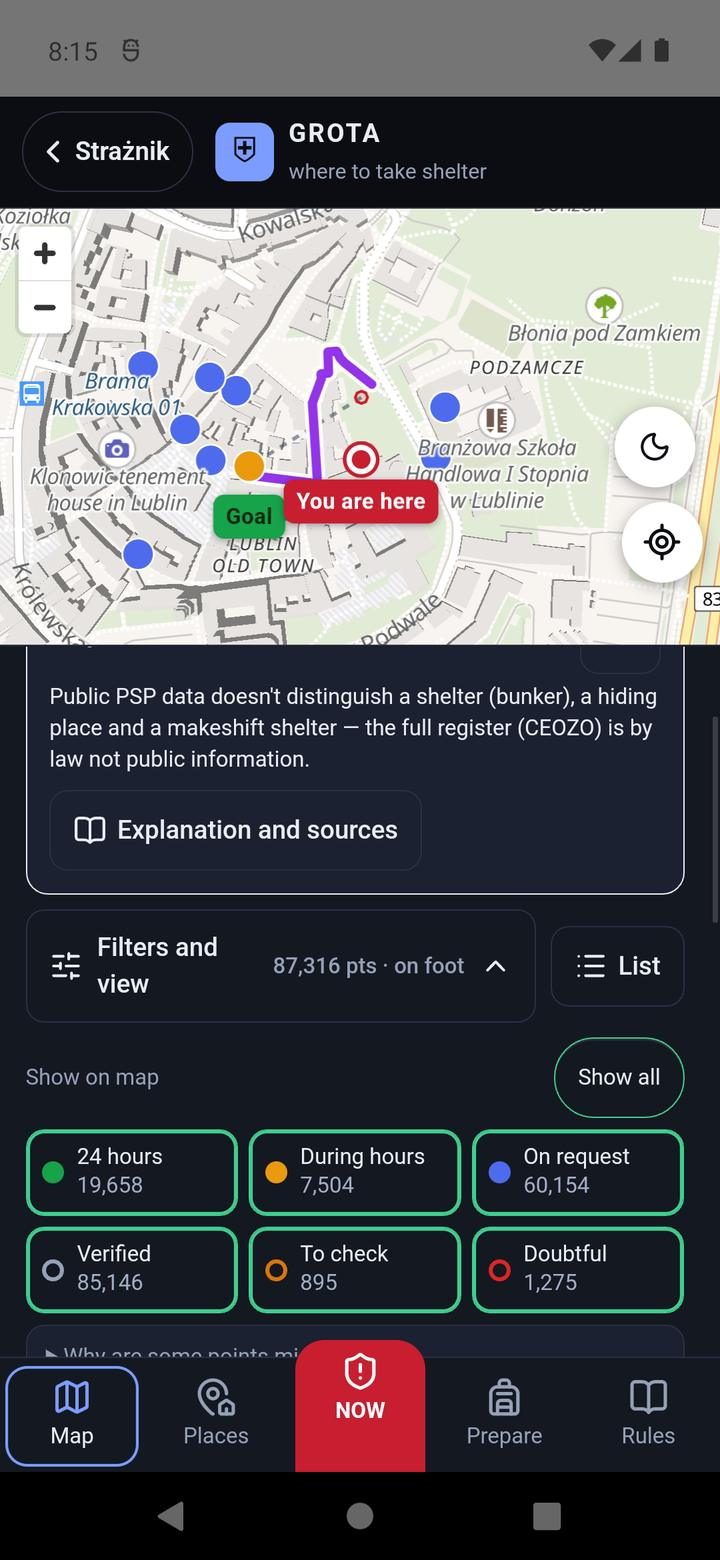
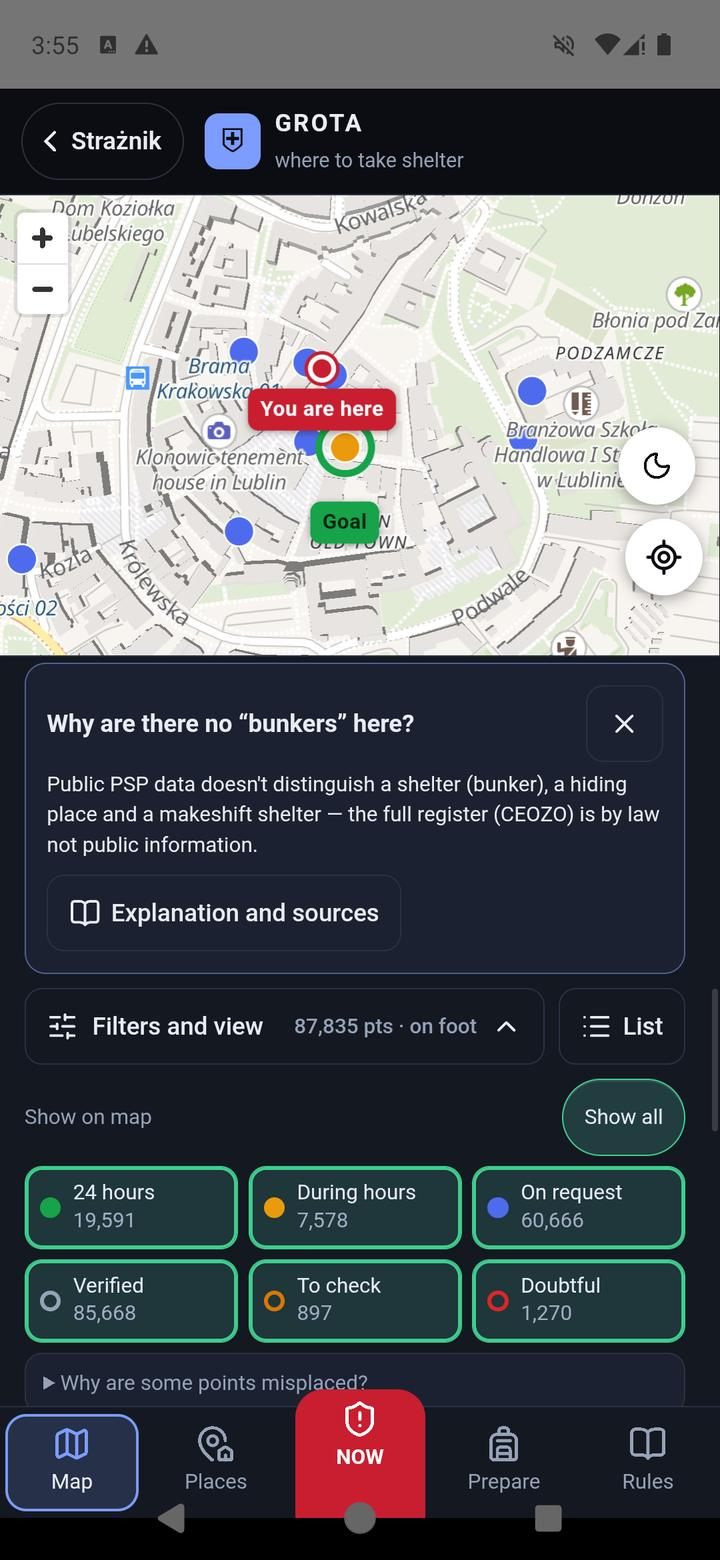
GROTA: zrzuty do instrukcji - filtry, data wykazu i dwa nowe ekrany
Zrzuty zrobione 26.10.2026 miedzy 15:28 a 16:03 z debugowego APK tej galezi
(modul 66b55272b6, paczka z wykazu PSP z 26.10, 87 835 punktow) na emulatorze
Pixel 7 z Androidem 14, przy `wm size 1080x2340`, potem zmniejszone do
720x1560 JPEG jak reszta zestawu GROTY. Nic nie retuszowane.

Odswiezone: g13-mapa-filtry* (liczniki 19 591 / 7 578 / 60 666 oraz
85 668 / 897 / 1 270) i g29-zasady-dane* (stan na 26.10.2026). Nowe:
g31-zmiana-wykazu* - ostrzezenie przy miejscu, ktorego zmiana dotyczy, oraz
g32-adres-imiennicy* - szukanie bez internetu z dopisanym wojewodztwem przy
powtorzonej nazwie (Olsztyn slaski i warminsko-mazurski). Numery g31/g32, bo
g30 zajmuje juz g30-lista.

Do ostrzezenia zapisano w pamieci aplikacji testowe miejsce "Dom" w Kromolicach
ze schronieniem OZO-852EACB93576 z wykazu z 14.09; wszystko w komunikacie -
stary adres, nowy, 23 km i dostep "Na zadanie" - aplikacja policzyla sama z obu
paczek. Zrzut imiennikow robiony z wylaczonym wifi, zeby odpowiadal naprawde
spis offline. Nazwy wojewodztw i notatka uzytkownika zostaja polskie w wersji
angielskiej i ukrainskiej - tak sa w danych i tak je wpisuje czlowiek; napisane
wprost w docs/screens/README.md i w opisie alternatywnym.

Do "Gdy mapa sie zestarzeje" zrzutu swiadomie NIE MA: paczki map nie byly od
tamtej zmiany przebudowane, wiec zaden telefon nie pokaze dzis uczciwie napisu
"Jest nowsza mapa". Rozdzial zostaje opisany slowami.
[…]

diff --git a/docs/grota-uk.html b/docs/grota-uk.html
@@ -29,7 +29,7 @@
     <h1>GROTA — де сховатися</h1>
     <p class="lead">GROTA — частина застосунку Strażnik («Вартовий»). Під час повітряної тривоги вона показує <b>найближчі місця укриття</b> з публічного переліку Державної пожежної служби Польщі (PSP) і веде до них. Заздалегідь допомагає зберегти укриття біля дому, роботи й школи, завантажити мапу на випадок відсутності інтернету та підготуватися за польським урядовим «Порадником безпеки».</p>
     <div class="actions"><a class="button primary" href="https://play.google.com/store/apps/details?id=pl.straznik.app">↓ Strażnik у Google Play</a><a class="button" href="https://github.com/cukierrro/Straznik/releases/latest/download/Straznik.apk">↓ Завантажити Strażnik для Android</a><a class="button" href="en.html">Посібник Strażnik (англійською)</a></div>
-    <p class="fineprint">З версії 1.7.72 GROTA працює <b>українською</b>, англійською та польською (розділ 8). Сам Strażnik (поза GROTA) має польську й англійську мови, тому його кнопки подаємо польською, а в дужках — англійською. Знімки: 22 вересня 2026, емулятор, позиція в Старому місті Любліна; списки підготовки і вкладку Правила перезняли 26 вересня 2026 у випуску 1.7.80; адреси з переліку PSP залишаються польською. GROTA працює в застосунках для Android та iPhone; у браузерній версії її немає. Торкніться знімка, щоб відкрити його повністю. Переклад посібника — машинний з перевіркою; якщо помітите помилку, напишіть нам.</p>
+    <p class="fineprint">З версії 1.7.72 GROTA працює <b>українською</b>, англійською та польською (розділ 8). Сам Strażnik (поза GROTA) має польську й англійську мови, тому його кнопки подаємо польською, а в дужках — англійською. Знімки: 22 вересня 2026, емулятор, позиція в Старому місті Любліна; списки підготовки і вкладку Правила перезняли 26 вересня 2026 у випуску 1.7.80, мапу й фільтри — 19 жовтня 2026 у випуску 1.7.99, а фільтри, дату переліку PSP і два нові екрани (зміна переліку, пошук без інтернету) — 26 жовтня 2026; адреси з переліку PSP залишаються польською. GROTA працює в застосунках для Android та iPhone; у браузерній версії її немає. Торкніться знімка, щоб відкрити його повністю. Переклад посібника — машинний з перевіркою; якщо помітите помилку, напишіть нам.</p>
   </div>
   <a class="shot-link" href="screens/grota/g04-teraz-propozycja-uk.jpg"><img src="screens/grota/g04-teraz-propozycja-uk.jpg" width="720" height="1560" alt="Екран ЗАРАЗ у GROTA: мапа Старого міста Любліна з маршрутом від «Ви тут» до мети, під нею картка «Найближче перевірене укриття — ul. Złota 2, Lublin» і велика зелена кнопка ВЕСТИ"></a>
 </div></header>
@@ -114,7 +114,7 @@
   <div class="shots"><figure><a class="shot-link" href="screens/grota/g30-lista-uk.jpg"><img loading="lazy" src="screens/grota/g30-lista-uk.jpg" width="720" height="1560" alt="Список найближчих пунктів: ul. Podwale 11 69 м, ul. Podwale 11 78 м, ul. Grodzka 5 102 м, ul. Zlota 2 107 м — з часом пішки, доступом і видом об'єкта"></a><figcaption>Ті самі пункти, що й на мапі, словами.</figcaption></figure></div>
   <h3>Фільтри й вигляд</h3>
   <p><kbd>Фільтри й вигляд</kbd> під мапою дозволяє показати лише вибрані пункти: за доступом (<kbd>Цілодобово</kbd>, <kbd>У години</kbd>, <kbd>На вимогу</kbd>), за певністю розташування (<kbd>Перевірені</kbd>, <kbd>Перевірити</kbd>, <kbd>Сумнівні</kbd>) і за <b>типом будівлі</b> (11 груп, наприклад підземні паркінги, багатоквартирні будинки, школи, лікарні). Кожна кнопка вмикає або вимикає свою групу; <kbd>Показати всі</kbd> позначає все, а натиснута ще раз — знімає позначки. Тут також вибираєте <kbd>Пішки</kbd>, <kbd>Велосипед</kbd> або <kbd>Автомобіль</kbd>.</p>
-  <div class="shots"><figure><a class="shot-link" href="screens/grota/g13-mapa-filtry-uk.jpg"><img loading="lazy" src="screens/grota/g13-mapa-filtry-uk.jpg" width="720" height="1560" alt="Фільтри: Цілодобово 19 658, У години 7 504, На вимогу 60 154, Перевірені 85 146, Перевірити 895, Сумнівні 1 275"></a><figcaption>Фільтри доступу і певності.</figcaption></figure><figure><a class="shot-link" href="screens/grota/g14-mapa-rodzaje-uk.jpg"><img loading="lazy" src="screens/grota/g14-mapa-rodzaje-uk.jpg" width="720" height="1560" alt="Тип будівлі (за OpenStreetMap): підземні паркінги, торгові центри, вокзали, багатоквартирні будинки, будинки, школи, лікарні, установи, офіси, культура, невідомий"></a><figcaption>Тип будівлі.</figcaption></figure></div>
+  <div class="shots"><figure><a class="shot-link" href="screens/grota/g13-mapa-filtry-uk.jpg"><img loading="lazy" src="screens/grota/g13-mapa-filtry-uk.jpg" width="720" height="1560" alt="Фільтри: Цілодобово 19 591, У години 7 578, На вимогу 60 666, Перевірені 85 668, Перевірити 897, Сумнівні 1 270"></a><figcaption>Фільтри доступу і певності.</figcaption></figure><figure><a class="shot-link" href="screens/grota/g14-mapa-rodzaje-uk.jpg"><img loading="lazy" src="screens/grota/g14-mapa-rodzaje-uk.jpg" width="720" height="1560" alt="Тип будівлі (за OpenStreetMap): підземні паркінги, торгові центри, вокзали, багатоквартирні будинки, будинки, школи, лікарні, установи, офіси, культура, невідомий"></a><figcaption>Тип будівлі.</figcaption></figure></div>
   <div class="note">Фільтр мапи діє <b>лише на мапу</b>. ЗАРАЗ завжди шукає серед усіх перевірених пунктів, якщо ви самі не звузили вибір у «Вести до пунктів».</div>
   <p><b>Чому тут немає «сховищ»?</b> Під час першого відкриття GROTA пояснює, що публічні дані PSP не розрізняють сховище, укриття і тимчасове місце захисту, а повний реєстр за законом не є публічним. <kbd>Пояснення й джерела</kbd> веде до Правил.</p>
 </section>
@@ -129,7 +129,7 @@
     <li>Без інтернету <kbd>Шукати</kbd> подає лише населені пункти з переліку в телефоні, а позицією є центр населеного пункту. Коли два рядки списку виглядають однаково — як Olsztyn у ґміні Olsztyn, що є і у Вармінсько-Мазурському воєводстві, і біля Ченстохови, — GROTA дописує біля них воєводство. Назви воєводств залишаються польською, як в офіційному реєстрі.</li>
     <li>Торкніться плитки місця і в <b>«Виберіть укриття»</b> позначте до трьох пунктів зі списку найближчих.</li>
   </ol>
-  <div class="shots"><figure><a class="shot-link" href="screens/grota/g16-miejsca-uk.jpg"><img loading="lazy" src="screens/grota/g16-miejsca-uk.jpg" width="720" height="1560" alt="Мої постійні місця: Дім — укриття 2/3, записані маршрути 1, пішки; Робота — укриття 0/3"></a><figcaption>Список місць.</figcaption></figure><figure><a class="shot-link" href="screens/grota/g20-dodaj-miejsce-uk.jpg"><img loading="lazy" src="screens/grota/g20-dodaj-miejsce-uk.jpg" width="720" height="1560" alt="Нове місце: Школа / університет, поля назви й адреси, Шукати, Моя позиція, Вказати на мапі"></a><figcaption>Додавання місця.</figcaption></figure><figure><a class="shot-link" href="screens/grota/g19-miejsce-wybor-uk.jpg"><img loading="lazy" src="screens/grota/g19-miejsce-wybor-uk.jpg" width="720" height="1560" alt="Виберіть укриття: фільтр і список найближчих пунктів із прапорцями"></a><figcaption>Вибір до трьох укриттів.</figcaption></figure></div>
+  <div class="shots"><figure><a class="shot-link" href="screens/grota/g16-miejsca-uk.jpg"><img loading="lazy" src="screens/grota/g16-miejsca-uk.jpg" width="720" height="1560" alt="Мої постійні місця: Дім — укриття 2/3, записані маршрути 1, пішки; Робота — укриття 0/3"></a><figcaption>Список місць.</figcaption></figure><figure><a class="shot-link" href="screens/grota/g20-dodaj-miejsce-uk.jpg"><img loading="lazy" src="screens/grota/g20-dodaj-miejsce-uk.jpg" width="720" height="1560" alt="Нове місце: Школа / університет, поля назви й адреси, Шукати, Моя позиція, Вказати на мапі"></a><figcaption>Додавання місця.</figcaption></figure><figure><a class="shot-link" href="screens/grota/g19-miejsce-wybor-uk.jpg"><img loading="lazy" src="screens/grota/g19-miejsce-wybor-uk.jpg" width="720" height="1560" alt="Виберіть укриття: фільтр і список найближчих пунктів із прапорцями"></a><figcaption>Вибір до трьох укриттів.</figcaption></figure><figure><a class="shot-link" href="screens/grota/g32-adres-imiennicy-uk.jpg"><img loading="lazy" src="screens/grota/g32-adres-imiennicy-uk.jpg" width="720" height="1560" alt="Пошук адреси без інтернету: повідомлення «Немає з'єднання з пошуком адрес. Показую населені пункти, збережені в застосунку, — позиція означає центр населеного пункту» і результати Olsztyn, місто, гміна Olsztyn · śląskie; Olsztyn, місто, гміна Olsztyn · warmińsko-mazurskie; Olsztynek, місто, гміна Olsztynek. Назви воєводств лишаються польськими, як у реєстрі"></a><figcaption>За повтореної назви додається воєводство.</figcaption></figure></div>
   <h3 id="zmiana-wykazu">Коли зміниться перелік PSP</h3>
   <p>Перелік пунктів укриття веде Державна пожежна служба і змінює його щотижня. Буває, що <b>під тим самим номером пункту з’являється інша будівля</b> — так сталося 26 жовтня 2026 року, коли 25 пунктів переписали на об’єкти в інших ґмінах, за 3–23 км, а 20 з них зачинили («На вимогу»). GROTA запам’ятовує ваші укриття за номером з переліку, тому після такої зміни ваш запис вказував би на інше місце.</p>
   <p>Тому після оновлення застосунок перевіряє це сам і біля відповідного місця показує попередження: <b>що було збережено</b> (стара адреса), <b>що є тепер</b> (нова адреса й відстань), а якщо нова будівля зачинена — також і це. Він прямо каже, що <b>вибір нового місця укриття є обов’язковим</b>, і веде до списку вибору.</p>
@@ -138,6 +138,7 @@
     <li>Записаний маршрут до такого пункту застарів — GROTA ним не поведе і пояснить чому.</li>
     <li>Таке саме попередження побачите, коли пункт зникне з переліку (26 жовтня їх убуло 300).</li>
   </ul>
+  <div class="shots"><figure><a class="shot-link" href="screens/grota/g31-zmiana-wykazu-uk.jpg"><img loading="lazy" src="screens/grota/g31-zmiana-wykazu-uk.jpg" width="720" height="1560" alt="Попередження в подробицях місця: Перелік PSP змінився — перевірте збережені укриття. Збережене тут укриття: 51a, Kromolice, гміна Pogorzela; у переліку PSP від 2026-10-26 під тим самим номером тепер інша будівля: os. Osiedle Gawrony 2, Gostyń — за 23 км, будівля зачинена («На вимогу»). Кнопки Вибрати нове укриття і Залишаю як є"></a><figcaption>Попередження біля місця, якого стосується зміна.</figcaption></figure></div>
   <h3>Подробиці, нотатки й редагування</h3>
   <p>У подробицях місця видно розташування, <b>«Моє місце в будівлі»</b> (наприклад «коридор на першому поверсі, без вікон» — де сховатися, якщо не встигнете вийти) і вибрані укриття. Біля кожного укриття є поле <b>«Як увійти — години, хто відчиняє, контакт управителя (ваша нотатка)»</b>. Його варто заповнити після розмови з управителем. Олівець відкриває редагування: назва, розташування, вид, ваше місце в будівлі з прапорцем <b>«Я перевірив це місце на місці»</b>, короткий список підготовки і спосіб пересування. Зміни зберігаються самі. Кошик видаляє місце, а ручка ⋮⋮ змінює порядок.</p>
   <div class="shots"><figure><a class="shot-link" href="screens/grota/g17-miejsce-szczegoly-uk.jpg"><img loading="lazy" src="screens/grota/g17-miejsce-szczegoly-uk.jpg" width="720" height="1560" alt="Подробиці місця Дім: розташування, моє місце в будівлі, перевірене; пересування пішки"></a><figcaption>Подробиці місця.</figcaption></figure><figure><a class="shot-link" href="screens/grota/g18-miejsce-schronienia-uk.jpg"><img loading="lazy" src="screens/grota/g18-miejsce-schronienia-uk.jpg" width="720" height="1560" alt="Мої укриття 2/3: ul. Złota 2 з нотаткою і записаним маршрутом"></a><figcaption>Укриття з нотаткою і записаним маршрутом.</figcaption></figure></div>
@@ -173,7 +174,7 @@
 <section id="zasady">
   <h2>7. Вкладка Правила</h2>
 <p>GROTA не створює власних процедур. Кожна порада у вкладці <kbd>Правила</kbd> — цитата з польського урядового «Порадника безпеки» («Poradnik bezpieczeństwa», 1/2025) з номером сторінки: що робити, почувши сигнал тривоги, повітряна атака, укриття (що робити, якщо не встигаєте), евакуація, підготовка оточення і план на випадок кризи. Від випуску 1.7.80 є також окремий розділ <b>«Інструкція реагування МВС Польщі»</b> — цитати з матеріалу МВС Польщі та Державної пожежної служби від 25 вересня 2026 року: як вибрати приміщення, правило двох стін, коли не спускатися в підвал і де стати в підземному гаражі. Далі пояснення: чого порадник не визначає, чому в GROTA немає «сховищ», <b>наскільки свіжі пункти</b> (дата реєстру PSP і їх кількість, взяті прямо з пакета даних), обмеження даних, звідки беруться зміщені пункти, і джерела. <kbd>Закрити</kbd> повертає до попередньої вкладки.</p>
-  <div class="shots"><figure><a class="shot-link" href="screens/grota/g28-zasady-instrukcja-uk.jpg"><img loading="lazy" src="screens/grota/g28-zasady-instrukcja-uk.jpg" width="720" height="1560" alt="Розділ Інструкція реагування МВС Польщі у вкладці Правила: пояснення, що це за матеріал від 25 вересня 2026 року, і правило Коли встигаєте до пункту укриття зі сторінкою 4"></a><figcaption>Правила з інструкції МВС.</figcaption></figure><figure><a class="shot-link" href="screens/grota/g29-zasady-dane-uk.jpg"><img loading="lazy" src="screens/grota/g29-zasady-dane-uk.jpg" width="720" height="1560" alt="Розділ Наскільки свіжі пункти: пункти з відкритого реєстру Державної пожежної служби, станом на 19.10.2026, 87 316 у цій версії застосунку"></a><figcaption>Дата реєстру PSP.</figcaption></figure></div>
+  <div class="shots"><figure><a class="shot-link" href="screens/grota/g28-zasady-instrukcja-uk.jpg"><img loading="lazy" src="screens/grota/g28-zasady-instrukcja-uk.jpg" width="720" height="1560" alt="Розділ Інструкція реагування МВС Польщі у вкладці Правила: пояснення, що це за матеріал від 25 вересня 2026 року, і правило Коли встигаєте до пункту укриття зі сторінкою 4"></a><figcaption>Правила з інструкції МВС.</figcaption></figure><figure><a class="shot-link" href="screens/grota/g29-zasady-dane-uk.jpg"><img loading="lazy" src="screens/grota/g29-zasady-dane-uk.jpg" width="720" height="1560" alt="Розділ Наскільки свіжі пункти: пункти з відкритого реєстру Державної пожежної служби, станом на 26.10.2026, 87 835 у цій версії застосунку"></a><figcaption>Дата реєстру PSP.</figcaption></figure></div>
 </section>
 
 <section id="jezyk">

diff --git a/docs/grota.html b/docs/grota.html
@@ -29,7 +29,7 @@
     <h1>GROTA — gdzie się schronić</h1>
     <p class="lead">GROTA to część aplikacji Strażnik. Przy alarmie pokazuje <b>najbliższe miejsca schronienia</b> z publicznego wykazu Państwowej Straży Pożarnej i prowadzi do nich. Zawczasu pomaga zapisać schronienia przy domu, pracy i szkole, pobrać mapę na wypadek braku internetu i przygotować się według „Poradnika bezpieczeństwa”.</p>
     <div class="actions"><a class="button primary" href="https://play.google.com/store/apps/details?id=pl.straznik.app">↓ Strażnik w Google Play</a><a class="button" href="https://github.com/cukierrro/Straznik/releases/latest/download/Straznik.apk">↓ Pobierz Strażnika na Androida</a><a class="button" href="index.html">Instrukcja Strażnika</a></div>
-    <p class="fineprint">Zrzuty zrobiono 22 września 2026 w Strażniku 1.7.68, z pozycją na Starym Mieście w Lublinie; listy przygotowań i zakładkę Zasady odświeżono 26 września 2026 w wydaniu 1.7.80. Adresy na zrzutach pochodzą z publicznego wykazu PSP. GROTA działa w aplikacji na Androida i na iPhone'a; <b>nie ma jej w wersji przeglądarkowej</b>. Od wersji 1.7.72 mówi po polsku, angielsku i ukraińsku (rozdział 8). Dotknij zdjęcia, aby otworzyć je w pełnym rozmiarze.</p>
+    <p class="fineprint">Zrzuty zrobiono 22 września 2026 w Strażniku 1.7.68, z pozycją na Starym Mieście w Lublinie; listy przygotowań i zakładkę Zasady odświeżono 26 września 2026 w wydaniu 1.7.80, mapę i filtry 19 października 2026 w wydaniu 1.7.99, a filtry, datę wykazu PSP i dwa nowe ekrany (zmiana wykazu, szukanie bez internetu) 26 października 2026. Adresy na zrzutach pochodzą z publicznego wykazu PSP. GROTA działa w aplikacji na Androida i na iPhone'a; <b>nie ma jej w wersji przeglądarkowej</b>. Od wersji 1.7.72 mówi po polsku, angielsku i ukraińsku (rozdział 8). Dotknij zdjęcia, aby otworzyć je w pełnym rozmiarze.</p>
   </div>
   <a class="shot-link" href="screens/grota/g04-teraz-propozycja.jpg"><img src="screens/grota/g04-teraz-propozycja.jpg" width="720" height="1560" alt="Ekran TERAZ w GROCIE: mapa Starego Miasta w Lublinie z trasą od „Tu jesteś” do celu, a pod nią karta „Najbliższe sprawdzone miejsce schronienia — ul. Złota 2, Lublin, 218 m, ok. 3 min trasą” i duży zielony przycisk PROWADŹ"></a>
 </div></header>
@@ -114,7 +114,7 @@
   <div class="shots"><figure><a class="shot-link" href="screens/grota/g30-lista.jpg"><img loading="lazy" src="screens/grota/g30-lista.jpg" width="720" height="1560" alt="Lista najbliższych punktów: ul. Podwale 11 69 m, ul. Podwale 11 78 m, ul. Grodzka 5 102 m, ul. Złota 2 107 m — z czasem dojścia, dostępem i rodzajem obiektu"></a><figcaption>Te same punkty co na mapie, do przeczytania.</figcaption></figure></div>
   <h3>Filtry i widok</h3>
   <p><kbd>Filtry i widok</kbd> pod mapą pozwala pokazać tylko wybrane punkty: według dostępu (<kbd>Całodobowo</kbd>, <kbd>W godzinach</kbd>, <kbd>Na żądanie</kbd>), pewności położenia (<kbd>Sprawdzone</kbd>, <kbd>Do sprawdzenia</kbd>, <kbd>Wątpliwe</kbd>) i <b>rodzaju budynku</b> (11 grup, np. parkingi podziemne, bloki, szkoły, szpitale). Każdy przycisk włącza albo wyłącza swoją grupę; <kbd>Pokaż wszystkie</kbd> zaznacza wszystko, a naciśnięte ponownie — odznacza. Tu też wybierasz <kbd>Pieszo</kbd>, <kbd>Rower</kbd> albo <kbd>Samochód</kbd>.</p>
-  <div class="shots"><figure><a class="shot-link" href="screens/grota/g13-mapa-filtry.jpg"><img loading="lazy" src="screens/grota/g13-mapa-filtry.jpg" width="720" height="1560" alt="Filtry: Całodobowo 19 658, W godzinach 7504, Na żądanie 60 154, Sprawdzone 85 146, Do sprawdzenia 895, Wątpliwe 1275"></a><figcaption>Filtry dostępu i pewności.</figcaption></figure><figure><a class="shot-link" href="screens/grota/g14-mapa-rodzaje.jpg"><img loading="lazy" src="screens/grota/g14-mapa-rodzaje.jpg" width="720" height="1560" alt="Rodzaj budynku wg OpenStreetMap: parkingi podziemne, centra handlowe, dworce, bloki, domy, szkoły, szpitale, urzędy, biura, kultura, rodzaj nieznany"></a><figcaption>Rodzaj budynku.</figcaption></figure></div>
+  <div class="shots"><figure><a class="shot-link" href="screens/grota/g13-mapa-filtry.jpg"><img loading="lazy" src="screens/grota/g13-mapa-filtry.jpg" width="720" height="1560" alt="Filtry: Całodobowo 19 591, W godzinach 7578, Na żądanie 60 666, Sprawdzone 85 668, Do sprawdzenia 897, Wątpliwe 1270"></a><figcaption>Filtry dostępu i pewności.</figcaption></figure><figure><a class="shot-link" href="screens/grota/g14-mapa-rodzaje.jpg"><img loading="lazy" src="screens/grota/g14-mapa-rodzaje.jpg" width="720" height="1560" alt="Rodzaj budynku wg OpenStreetMap: parkingi podziemne, centra handlowe, dworce, bloki, domy, szkoły, szpitale, urzędy, biura, kultura, rodzaj nieznany"></a><figcaption>Rodzaj budynku.</figcaption></figure></div>
   <div class="note">Filtr mapy dotyczy <b>tylko mapy</b>. TERAZ zawsze szuka wśród wszystkich sprawdzonych punktów, chyba że sam zawęzisz wybór w „Prowadź do punktów”.</div>
   <p><b>Czemu nie ma tu „schronów”?</b> Przy pierwszym wejściu GROTA wyjaśnia, że publiczne dane PSP nie rozróżniają schronu, ukrycia i miejsca doraźnego schronienia, a pełna ewidencja z mocy ustawy nie jest jawna. <kbd>Wyjaśnienie i źródła</kbd> prowadzi do Zasad.</p>
 </section>
@@ -129,7 +129,7 @@
     <li>Bez internetu <kbd>Szukaj</kbd> podaje same miejscowości ze spisu w telefonie, a pozycją jest środek miejscowości. Gdy dwie miejscowości na liście wyglądają tak samo — jak Olsztyn w gminie Olsztyn, który jest i w warmińsko-mazurskim, i pod Częstochową — GROTA dopisuje przy nich województwo.</li>
     <li>Dotknij kafla miejsca i w <b>„Wybierz miejsca schronienia”</b> zaznacz do trzech punktów z listy najbliższych.</li>
   </ol>
-  <div class="shots"><figure><a class="shot-link" href="screens/grota/g16-miejsca.jpg"><img loading="lazy" src="screens/grota/g16-miejsca.jpg" width="720" height="1560" alt="Lista Moje stałe miejsca: Dom — schronienia 2/3, nagrane trasy 1, Pieszo; Praca — schronienia 0/3"></a><figcaption>Lista miejsc.</figcaption></figure><figure><a class="shot-link" href="screens/grota/g20-dodaj-miejsce.jpg"><img loading="lazy" src="screens/grota/g20-dodaj-miejsce.jpg" width="720" height="1560" alt="Nowe miejsce: Szkoła / uczelnia, pola Nazwa i Adres miejsca, przyciski Szukaj, Moja pozycja, Wskaż na mapie"></a><figcaption>Dodawanie miejsca.</figcaption></figure><figure><a class="shot-link" href="screens/grota/g19-miejsce-wybor.jpg"><img loading="lazy" src="screens/grota/g19-miejsce-wybor.jpg" width="720" height="1560" alt="Wybierz miejsca schronienia: filtr Pokaż punkty i lista najbliższych punktów z polem wyboru"></a><figcaption>Wybór do trzech schronień.</figcaption></figure></div>
+  <div class="shots"><figure><a class="shot-link" href="screens/grota/g16-miejsca.jpg"><img loading="lazy" src="screens/grota/g16-miejsca.jpg" width="720" height="1560" alt="Lista Moje stałe miejsca: Dom — schronienia 2/3, nagrane trasy 1, Pieszo; Praca — schronienia 0/3"></a><figcaption>Lista miejsc.</figcaption></figure><figure><a class="shot-link" href="screens/grota/g20-dodaj-miejsce.jpg"><img loading="lazy" src="screens/grota/g20-dodaj-miejsce.jpg" width="720" height="1560" alt="Nowe miejsce: Szkoła / uczelnia, pola Nazwa i Adres miejsca, przyciski Szukaj, Moja pozycja, Wskaż na mapie"></a><figcaption>Dodawanie miejsca.</figcaption></figure><figure><a class="shot-link" href="screens/grota/g19-miejsce-wybor.jpg"><img loading="lazy" src="screens/grota/g19-miejsce-wybor.jpg" width="720" height="1560" alt="Wybierz miejsca schronienia: filtr Pokaż punkty i lista najbliższych punktów z polem wyboru"></a><figcaption>Wybór do trzech schronień.</figcaption></figure><figure><a class="shot-link" href="screens/grota/g32-adres-imiennicy.jpg"><img loading="lazy" src="screens/grota/g32-adres-imiennicy.jpg" width="720" height="1560" alt="Szukanie adresu bez internetu: komunikat „Brak połączenia z wyszukiwarką adresów. Pokazuję miejscowości zapisane w aplikacji — pozycja to środek miejscowości” i wyniki Olsztyn, miasto, gm. Olsztyn · śląskie; Olsztyn, miasto, gm. Olsztyn · warmińsko-mazurskie; Olsztynek, miasto, gm. Olsztynek"></a><figcaption>Przy powtórzonej nazwie dochodzi województwo.</figcaption></figure></div>
   <h3 id="zmiana-wykazu">Gdy zmieni się wykaz PSP</h3>
   <p>Wykaz punktów schronienia prowadzi Państwowa Straż Pożarna i zmienia go co tydzień. Zdarza się, że <b>pod tym samym numerem punktu pojawia się inny budynek</b> — tak było 26 października 2026, gdy 25 punktów przepisano na obiekty w innych gminach, oddalone od 3 do 23 km, a 20 z nich zamknięto („Na żądanie”). GROTA zapamiętuje Twoje schronienia po numerze z wykazu, więc po takiej zmianie Twój zapis wskazywałby inne miejsce.</p>
   <p>Dlatego po aktualizacji aplikacja sama to sprawdza i przy miejscu, którego dotyczy, pokazuje ostrzeżenie: <b>co było zapisane</b> (stary adres), <b>co jest teraz</b> (nowy adres i odległość), a jeśli nowy obiekt jest zamknięty — także to. Mówi wprost, że <b>wybór nowego miejsca schronienia jest konieczny</b>, i prowadzi do listy wyboru.</p>
@@ -138,6 +138,7 @@
     <li>Nagrana trasa do takiego punktu jest nieaktualna — GROTA nią nie poprowadzi i powie dlaczego.</li>
     <li>To samo ostrzeżenie zobaczysz, gdy punkt zniknie z wykazu (26 października ubyło ich 300).</li>
   </ul>
+  <div class="shots"><figure><a class="shot-link" href="screens/grota/g31-zmiana-wykazu.jpg"><img loading="lazy" src="screens/grota/g31-zmiana-wykazu.jpg" width="720" height="1560" alt="Ostrzeżenie w szczegółach miejsca: Zmienił się wykaz PSP — sprawdź zapisane schronienia. Zapisane tu schronienie: 51a, Kromolice, gm. Pogorzela; w wykazie PSP z 2026-10-26 pod tym samym numerem jest os. Osiedle Gawrony 2, Gostyń — 23 km dalej, obiekt zamknięty („Na żądanie”). Przyciski Wybierz nowe schronienie i Zostawiam jak jest"></a><figcaption>Ostrzeżenie przy miejscu, którego zmiana dotyczy.</figcaption></figure></div>
   <h3>Szczegóły, notatki i edycja</h3>
   <p>W szczegółach miejsca widać położenie, <b>„Moje miejsce w budynku”</b> (np. „korytarz na parterze, bez okien” — gdzie się schować, gdy nie zdążysz wyjść) i wybrane schronienia. Przy każdym schronieniu jest pole <b>„Jak wejść — godziny, kto otwiera, kontakt do zarządcy (Twoja notatka)”</b>. Warto je wypełnić po rozmowie z zarządcą. Ołówek otwiera edycję: nazwa, położenie, rodzaj, miejsce w budynku z polem „Sprawdziłem to miejsce na miejscu”, skrócona lista kontrolna i środek transportu. Zmiany zapisują się same („✓ Zapisano”). Kosz usuwa miejsce, a uchwyt ⋮⋮ zmienia kolejność.</p>
   <div class="shots"><figure><a class="shot-link" href="screens/grota/g17-miejsce-szczegoly.jpg"><img loading="lazy" src="screens/grota/g17-miejsce-szczegoly.jpg" width="720" height="1560" alt="Szczegóły miejsca Dom: położenie Lublin, ul. Królewska 4, moje miejsce w budynku korytarz na parterze bez okien, sprawdzone, środek transportu Pieszo"></a><figcaption>Szczegóły miejsca.</figcaption></figure><figure><a class="shot-link" href="screens/grota/g18-miejsce-schronienia.jpg"><img loading="lazy" src="screens/grota/g18-miejsce-schronienia.jpg" width="720" height="1560" alt="Moje miejsca schronienia 2/3: ul. Złota 2 z notatką Czynne 8–20, klucz u portiera i nagraną trasą 240 m, 3 min 25 s"></a><figcaption>Schronienie z notatką i nagraną trasą.</figcaption></figure></div>
@@ -173,7 +174,7 @@
 <section id="zasady">
   <h2>7. Zakładka Zasady</h2>
 <p>GROTA nie tworzy własnych procedur. Każde zalecenie w zakładce <kbd>Zasady</kbd> to cytat z „Poradnika bezpieczeństwa” (Rząd RP, 1/2025) z numerem strony: co robić po usłyszeniu sygnału alarmowego, atak z powietrza, schronienia (co robić, gdy nie zdążysz), ewakuacja, przygotowanie otoczenia i plan na kryzys. Od wydania 1.7.80 jest też osobny dział <b>„Instrukcja reagowania MSWiA”</b> — cytaty z materiału MSWiA i Państwowej Straży Pożarnej z 25 września 2026: jak wybrać pomieszczenie, zasada dwóch ścian, kiedy nie schodzić do piwnicy i gdzie stanąć w garażu podziemnym. Dalej są wyjaśnienia: czego poradnik nie określa, dlaczego w GROCIE nie ma „schronów”, <b>z kiedy są punkty</b> (data wykazu PSP i ich liczba, brane wprost z paczki w aplikacji), jakie są ograniczenia danych, skąd biorą się przesunięte punkty i źródła. <kbd>Zamknij</kbd> wraca do poprzedniej zakładki.</p>
-  <div class="shots"><figure><a class="shot-link" href="screens/grota/g27-zasady.jpg"><img loading="lazy" src="screens/grota/g27-zasady.jpg" width="720" height="1560" alt="Góra zakładki Zasady: karta wyboru języka, wyjaśnienie skąd pochodzą zalecenia i pierwszy dział Sygnały alarmowe"></a><figcaption>Zasady z poradnika.</figcaption></figure><figure><a class="shot-link" href="screens/grota/g28-zasady-instrukcja.jpg"><img loading="lazy" src="screens/grota/g28-zasady-instrukcja.jpg" width="720" height="1560" alt="Dział Instrukcja reagowania MSWiA w zakładce Zasady: wyjaśnienie, czym jest materiał z 25 września 2026, i zasada Gdy zdążysz do punktu schronienia ze stroną 4"></a><figcaption>Zasady z instrukcji MSWiA.</figcaption></figure><figure><a class="shot-link" href="screens/grota/g29-zasady-dane.jpg"><img loading="lazy" src="screens/grota/g29-zasady-dane.jpg" width="720" height="1560" alt="Sekcja Z kiedy są punkty: punkty z wykazu Komendy Głównej PSP, stan na 19.10.2026, 87 316 punktów w tej wersji aplikacji"></a><figcaption>Data wykazu PSP.</figcaption></figure></div>
+  <div class="shots"><figure><a class="shot-link" href="screens/grota/g27-zasady.jpg"><img loading="lazy" src="screens/grota/g27-zasady.jpg" width="720" height="1560" alt="Góra zakładki Zasady: karta wyboru języka, wyjaśnienie skąd pochodzą zalecenia i pierwszy dział Sygnały alarmowe"></a><figcaption>Zasady z poradnika.</figcaption></figure><figure><a class="shot-link" href="screens/grota/g28-zasady-instrukcja.jpg"><img loading="lazy" src="screens/grota/g28-zasady-instrukcja.jpg" width="720" height="1560" alt="Dział Instrukcja reagowania MSWiA w zakładce Zasady: wyjaśnienie, czym jest materiał z 25 września 2026, i zasada Gdy zdążysz do punktu schronienia ze stroną 4"></a><figcaption>Zasady z instrukcji MSWiA.</figcaption></figure><figure><a class="shot-link" href="screens/grota/g29-zasady-dane.jpg"><img loading="lazy" src="screens/grota/g29-zasady-dane.jpg" width="720" height="1560" alt="Sekcja Z kiedy są punkty: punkty z wykazu Komendy Głównej PSP, stan na 26.10.2026, 87 835 punktów w tej wersji aplikacji"></a><figcaption>Data wykazu PSP.</figcaption></figure></div>
 </section>
 
 <section id="jezyk">

diff --git a/docs/grota-en.html b/docs/grota-en.html
@@ -29,7 +29,7 @@
     <h1>GROTA — where to take shelter</h1>
     <p class="lead">GROTA is part of the Strażnik app. During an alert it shows the <b>nearest shelter points</b> from the public list of Poland's State Fire Service (PSP) and guides you there. In advance, it helps you save shelters near your home, work and school, download a map for when there is no internet, and prepare following the Polish government's Safety Guide.</p>
     <div class="actions"><a class="button primary" href="https://play.google.com/store/apps/details?id=pl.straznik.app">↓ Strażnik on Google Play</a><a class="button" href="https://github.com/cukierrro/Straznik/releases/latest/download/Straznik.apk">↓ Get Strażnik for Android</a><a class="button" href="en.html">Strażnik user guide</a></div>
-    <p class="fineprint">Since version 1.7.72 GROTA speaks <b>English, Ukrainian and Polish</b> (section 8). Screenshots: 22 September 2026, emulator, position in Lublin's Old Town; the preparation checklists and the Rules tab were retaken on 26 September 2026 in release 1.7.80; addresses come from the public PSP list and stay in Polish. GROTA works in the Android and iPhone apps; it is <b>not part of the browser version</b>. Tap a screenshot to open it full size.</p>
+    <p class="fineprint">Since version 1.7.72 GROTA speaks <b>English, Ukrainian and Polish</b> (section 8). Screenshots: 22 September 2026, emulator, position in Lublin's Old Town; the preparation checklists and the Rules tab were retaken on 26 September 2026 in release 1.7.80, the map and filters on 19 October 2026 in release 1.7.99, and the filters, the PSP list date and two new screens (the list change, searching without the internet) on 26 October 2026; addresses come from the public PSP list and stay in Polish. GROTA works in the Android and iPhone apps; it is <b>not part of the browser version</b>. Tap a screenshot to open it full size.</p>
   </div>
   <a class="shot-link" href="screens/grota/g04-teraz-propozycja-en.jpg"><img src="screens/grota/g04-teraz-propozycja-en.jpg" width="720" height="1560" alt="GROTA's NOW screen: a map of Lublin's Old Town with a route from “You are here” to the goal, and below it the card “Nearest verified shelter — ul. Złota 2, Lublin” with a big green NAVIGATE button"></a>
 </div></header>
@@ -114,7 +114,7 @@
   <div class="shots"><figure><a class="shot-link" href="screens/grota/g30-lista-en.jpg"><img loading="lazy" src="screens/grota/g30-lista-en.jpg" width="720" height="1560" alt="A list of the nearest points: ul. Podwale 11 69 m, ul. Podwale 11 78 m, ul. Grodzka 5 102 m, ul. Zlota 2 107 m — with walking time, access and type of facility"></a><figcaption>The same points as on the map, in words.</figcaption></figure></div>
   <h3>Filters and view</h3>
   <p><kbd>Filters and view</kbd> under the map shows only selected points: by access (<kbd>24 hours</kbd>, <kbd>During hours</kbd>, <kbd>On request</kbd>), by location certainty (<kbd>Verified</kbd>, <kbd>To check</kbd>, <kbd>Doubtful</kbd>) and by <b>building type</b> (11 groups, e.g. underground car parks, blocks of flats, schools, hospitals). Each button toggles its group; <kbd>Show all</kbd> selects everything, and pressed again — clears it. Here you also choose <kbd>On foot</kbd>, <kbd>Bike</kbd> or <kbd>Car</kbd>.</p>
-  <div class="shots"><figure><a class="shot-link" href="screens/grota/g13-mapa-filtry-en.jpg"><img loading="lazy" src="screens/grota/g13-mapa-filtry-en.jpg" width="720" height="1560" alt="Filters: 24 hours 19,658, During hours 7,504, On request 60,154, Verified 85,146, To check 895, Doubtful 1,275"></a><figcaption>Access and certainty filters.</figcaption></figure><figure><a class="shot-link" href="screens/grota/g14-mapa-rodzaje-en.jpg"><img loading="lazy" src="screens/grota/g14-mapa-rodzaje-en.jpg" width="720" height="1560" alt="Building type (per OpenStreetMap): underground car parks, shopping centres, stations, blocks of flats, houses, schools, hospitals, offices, businesses, culture, unknown"></a><figcaption>Building type.</figcaption></figure></div>
+  <div class="shots"><figure><a class="shot-link" href="screens/grota/g13-mapa-filtry-en.jpg"><img loading="lazy" src="screens/grota/g13-mapa-filtry-en.jpg" width="720" height="1560" alt="Filters: 24 hours 19,591, During hours 7,578, On request 60,666, Verified 85,668, To check 897, Doubtful 1,270"></a><figcaption>Access and certainty filters.</figcaption></figure><figure><a class="shot-link" href="screens/grota/g14-mapa-rodzaje-en.jpg"><img loading="lazy" src="screens/grota/g14-mapa-rodzaje-en.jpg" width="720" height="1560" alt="Building type (per OpenStreetMap): underground car parks, shopping centres, stations, blocks of flats, houses, schools, hospitals, offices, businesses, culture, unknown"></a><figcaption>Building type.</figcaption></figure></div>
   <div class="note">The map filter affects <b>only the map</b>. NOW always searches among all verified points, unless you narrow the choice in “Guide to points”.</div>
   <p><b>Why are there no “bunkers” here?</b> On the first visit GROTA explains that the public PSP data does not distinguish a bunker, a shelter and a makeshift refuge, and the full register is not public by law. <kbd>Explanation and sources</kbd> leads to the Rules.</p>
 </section>
@@ -129,7 +129,7 @@
     <li>With no internet, <kbd>Search</kbd> offers only places from the list stored in the phone, and the position is the centre of the place. When two entries on the list look the same — like Olsztyn in the commune of Olsztyn, which exists both in Warmia-Masuria and near Częstochowa — GROTA adds the province next to them. Province names stay in Polish, as they appear in the official register.</li>
     <li>Tap the place's tile and in <b>“Choose shelters”</b> tick up to three points from the list of the nearest ones.</li>
   </ol>
-  <div class="shots"><figure><a class="shot-link" href="screens/grota/g16-miejsca-en.jpg"><img loading="lazy" src="screens/grota/g16-miejsca-en.jpg" width="720" height="1560" alt="My regular places: Home — shelters 2/3, recorded routes 1, on foot; Work — shelters 0/3"></a><figcaption>The list of places.</figcaption></figure><figure><a class="shot-link" href="screens/grota/g20-dodaj-miejsce-en.jpg"><img loading="lazy" src="screens/grota/g20-dodaj-miejsce-en.jpg" width="720" height="1560" alt="New place: School / university, Name and address fields, Search, My position, Pick on the map"></a><figcaption>Adding a place.</figcaption></figure><figure><a class="shot-link" href="screens/grota/g19-miejsce-wybor-en.jpg"><img loading="lazy" src="screens/grota/g19-miejsce-wybor-en.jpg" width="720" height="1560" alt="Choose shelters: filter and the list of nearest points with tick boxes"></a><figcaption>Choosing up to three shelters.</figcaption></figure></div>
+  <div class="shots"><figure><a class="shot-link" href="screens/grota/g16-miejsca-en.jpg"><img loading="lazy" src="screens/grota/g16-miejsca-en.jpg" width="720" height="1560" alt="My regular places: Home — shelters 2/3, recorded routes 1, on foot; Work — shelters 0/3"></a><figcaption>The list of places.</figcaption></figure><figure><a class="shot-link" href="screens/grota/g20-dodaj-miejsce-en.jpg"><img loading="lazy" src="screens/grota/g20-dodaj-miejsce-en.jpg" width="720" height="1560" alt="New place: School / university, Name and address fields, Search, My position, Pick on the map"></a><figcaption>Adding a place.</figcaption></figure><figure><a class="shot-link" href="screens/grota/g19-miejsce-wybor-en.jpg"><img loading="lazy" src="screens/grota/g19-miejsce-wybor-en.jpg" width="720" height="1560" alt="Choose shelters: filter and the list of nearest points with tick boxes"></a><figcaption>Choosing up to three shelters.</figcaption></figure><figure><a class="shot-link" href="screens/grota/g32-adres-imiennicy-en.jpg"><img loading="lazy" src="screens/grota/g32-adres-imiennicy-en.jpg" width="720" height="1560" alt="Address search without the internet: the message “No connection to the address search. Showing towns stored in the app — the position is the town centre” and the results Olsztyn, town, Olsztyn municipality · śląskie; Olsztyn, town, Olsztyn municipality · warmińsko-mazurskie; Olsztynek, town, Olsztynek municipality. The province names stay in Polish, as in the register"></a><figcaption>A repeated name gets its province.</figcaption></figure></div>
   <h3 id="zmiana-wykazu">When the PSP list changes</h3>
   <p>The list of shelter points is kept by the State Fire Service and changes every week. Sometimes <b>the same point number starts pointing to a different building</b> — that is what happened on 26 October 2026, when 25 points were rewritten onto buildings in other communes, from 3 to 23 km away, and 20 of them were locked (“On request”). GROTA remembers your shelters by their number in the list, so after such a change your saved entry would point somewhere else.</p>
   <p>That is why, after an update, the app checks this itself and shows a warning at the place it concerns: <b>what you had saved</b> (the old address), <b>what is there now</b> (the new address and the distance) and, if the new building is locked, that too. It says plainly that <b>choosing a new shelter is necessary</b> and takes you to the list.</p>
@@ -138,6 +138,7 @@
     <li>A route you recorded to such a point is out of date — GROTA will not guide you along it and will say why.</li>
     <li>You will see the same warning when a point disappears from the list (300 were removed on 26 October).</li>
   </ul>
+  <div class="shots"><figure><a class="shot-link" href="screens/grota/g31-zmiana-wykazu-en.jpg"><img loading="lazy" src="screens/grota/g31-zmiana-wykazu-en.jpg" width="720" height="1560" alt="A warning in the place details: The PSP list has changed — check your saved shelters. The shelter saved here: 51a, Kromolice, Pogorzela municipality; in the PSP list of 2026-10-26 the same number now points to os. Osiedle Gawrony 2, Gostyń — 23 km away, a locked building (“On request”). Buttons Choose a new shelter and Leave it as it is"></a><figcaption>The warning at the place it concerns.</figcaption></figure></div>
   <h3>Details, notes and editing</h3>
   <p>A place's details show its location, <b>“My spot in the building”</b> (e.g. “ground-floor corridor, no windows” — where to hide if you can't get out in time) and the chosen shelters. Each shelter has a field <b>“How to get in — hours, who opens it, building manager's contact (your note)”</b>. It is worth filling in after talking to the manager. The pencil opens editing: name, location, type, your spot in the building with a tick <b>“I have checked this spot on site”</b>, a short checklist and the means of transport. Changes save themselves. The bin deletes a place, and the ⋮⋮ handle changes the order.</p>
   <div class="shots"><figure><a class="shot-link" href="screens/grota/g17-miejsce-szczegoly-en.jpg"><img loading="lazy" src="screens/grota/g17-miejsce-szczegoly-en.jpg" width="720" height="1560" alt="Details of the place Home: location, my spot in the building, verified; transport on foot"></a><figcaption>Place details.</figcaption></figure><figure><a class="shot-link" href="screens/grota/g18-miejsce-schronienia-en.jpg"><img loading="lazy" src="screens/grota/g18-miejsce-schronienia-en.jpg" width="720" height="1560" alt="My shelters 2/3: ul. Złota 2 with a note and a recorded route"></a><figcaption>A shelter with a note and a recorded route.</figcaption></figure></div>
@@ -173,7 +174,7 @@
 <section id="zasady">
   <h2>7. The Rules tab</h2>
 <p>GROTA does not make up its own procedures. Every recommendation in the <kbd>Rules</kbd> tab is a quote from the Polish government's Safety Guide (“Poradnik bezpieczeństwa”, 1/2025) with its page number: what to do when you hear an alert signal, an air attack, shelters (what to do if you can't make it in time), evacuation, preparing your surroundings and a crisis plan. Since release 1.7.80 there is also a separate section <b>“Response instruction, Ministry of the Interior”</b> — quotes from the document published by the Ministry of the Interior and the State Fire Service on 25 September 2026: how to choose a room, the two-wall rule, when not to go down to a basement and where to stand in an underground garage. Then come explanations: what the guide does not specify, why GROTA has no “bunkers”, <b>how current the points are</b> (the date of the PSP register and how many points this build holds, both taken straight from the data pack), the limits of the data, where misplaced points come from, and the sources. <kbd>Close</kbd> returns to the previous tab.</p>
-  <div class="shots"><figure><a class="shot-link" href="screens/grota/g28-zasady-instrukcja-en.jpg"><img loading="lazy" src="screens/grota/g28-zasady-instrukcja-en.jpg" width="720" height="1560" alt="The Response instruction section in the Rules tab: what the 25 September 2026 document is, and the rule When you can reach a shelter point in time with page 4"></a><figcaption>Rules from the ministry's instruction.</figcaption></figure><figure><a class="shot-link" href="screens/grota/g29-zasady-dane-en.jpg"><img loading="lazy" src="screens/grota/g29-zasady-dane-en.jpg" width="720" height="1560" alt="The How current the points are section: points from the public register of the State Fire Service, as of 19.10.2026, 87,316 in this version of the app"></a><figcaption>The date of the PSP register.</figcaption></figure></div>
+  <div class="shots"><figure><a class="shot-link" href="screens/grota/g28-zasady-instrukcja-en.jpg"><img loading="lazy" src="screens/grota/g28-zasady-instrukcja-en.jpg" width="720" height="1560" alt="The Response instruction section in the Rules tab: what the 25 September 2026 document is, and the rule When you can reach a shelter point in time with page 4"></a><figcaption>Rules from the ministry's instruction.</figcaption></figure><figure><a class="shot-link" href="screens/grota/g29-zasady-dane-en.jpg"><img loading="lazy" src="screens/grota/g29-zasady-dane-en.jpg" width="720" height="1560" alt="The How current the points are section: points from the public register of the State Fire Service, as of 26.10.2026, 87,835 in this version of the app"></a><figcaption>The date of the PSP register.</figcaption></figure></div>
 </section>
 
 <section id="jezyk">

diff --git a/docs/screens/README.md b/docs/screens/README.md
@@ -85,6 +85,34 @@ release 1.7.95) was built before `cap copy`, so it still showed the module from 
 on it matched the shipped pack, but the look predated the 14 October contrast and touch-target work.
 This set is the first one built with the assets actually synchronised, and it replaces those frames.
 
+The GROTA captures `g13-mapa-filtry*` and `g29-zasady-dane*` were retaken, and
+`g31-zmiana-wykazu*` and `g32-adres-imiennicy*` are new (Polish, `-en`, `-uk`), on
+26 October 2026 between 15:28 and 16:03 Europe/Warsaw. They come from a debug build of the
+current `grota-zmiana-wykazu` branch (module 66b55272b6, shelter pack from the PSP register
+of 26 October 2026, 87,835 points) on the Pixel 7 emulator with Android 14, with the screen
+set to `wm size 1080x2340` so the frames match the rest of the GROTA set, then downscaled to
+720 x 1560 JPEG. Nothing in them is retouched. The position is the same fake GPS fix in
+Lublin's Old Town as the earlier sets. `g13-*` shows the counts the pack really holds
+(87 835 points, 19 591 / 7 578 / 60 666 by access, 85 668 / 897 / 1 270 by location
+certainty), and `g29-*` the register date that goes with them.
+
+`g31-zmiana-wykazu*` shows the warning that the register changed. To produce it, a test place
+"Dom" in Kromolice was written to the app's own storage with the shelter `OZO-852EACB93576`
+saved from the register of 14 September 2026 — the point that PSP has since rewritten to a
+building in Gostyń. Everything in the warning (the old address, the new one, the 23 km and
+the "On request" access) is what the app computed from the two packs; only the saved place is
+made up, and its note "piwnica, wejscie od podworza" stays Polish in the English and Ukrainian
+frames because it is text a user types, not an interface string. `g32-adres-imiennicy*` was
+taken with the emulator's Wi-Fi switched off, so the offline town list really is what answers;
+the province names in the results stay Polish in all three languages, as they are in the
+register. Both new screens are in the app of this branch and in no released version yet.
+
+There is deliberately no screenshot for "When the map gets old": the offline map packs have not
+been rebuilt since that code was written, so no device can honestly show the "There is a newer
+map" line yet. The section is described in words until a newer pack exists.
+
+No alerts were sent and no production data was written.
+
 ## Updating
 
 `history-lubelskie-user.png` is an unchanged 1440 × 3200 screenshot supplied
